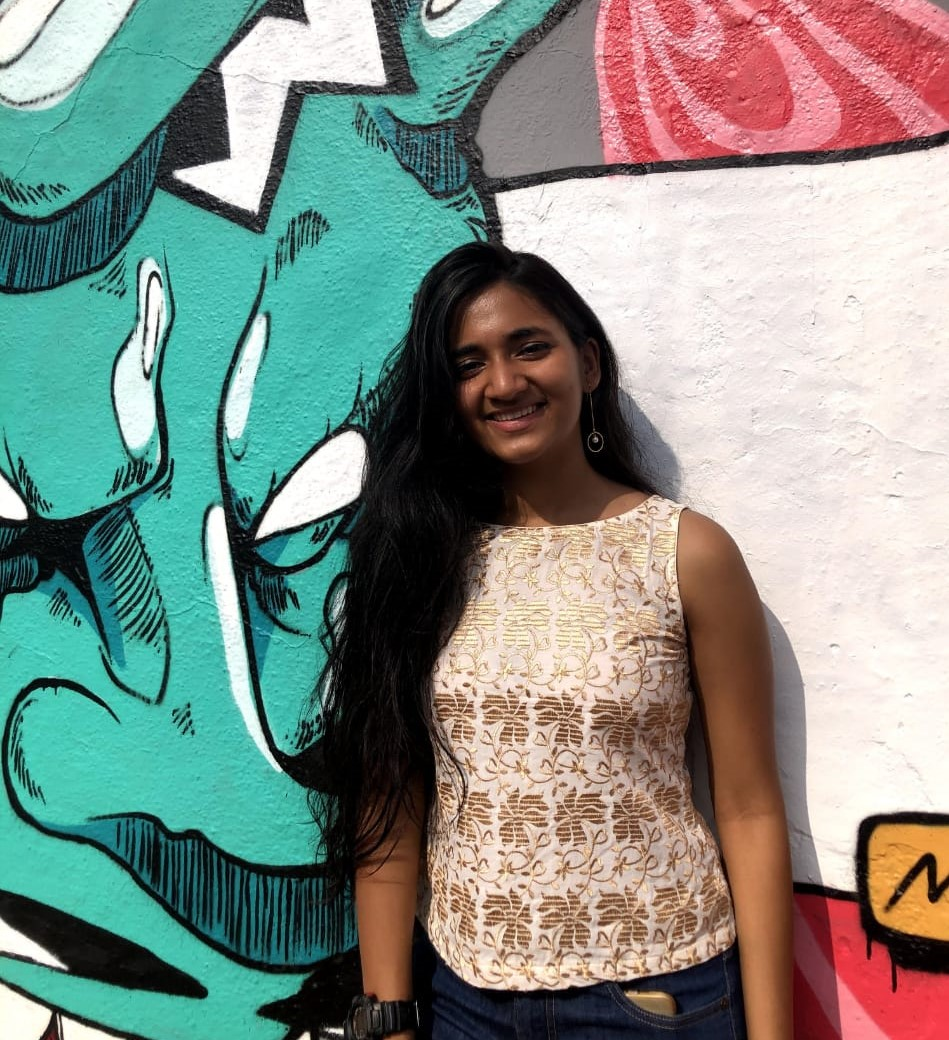
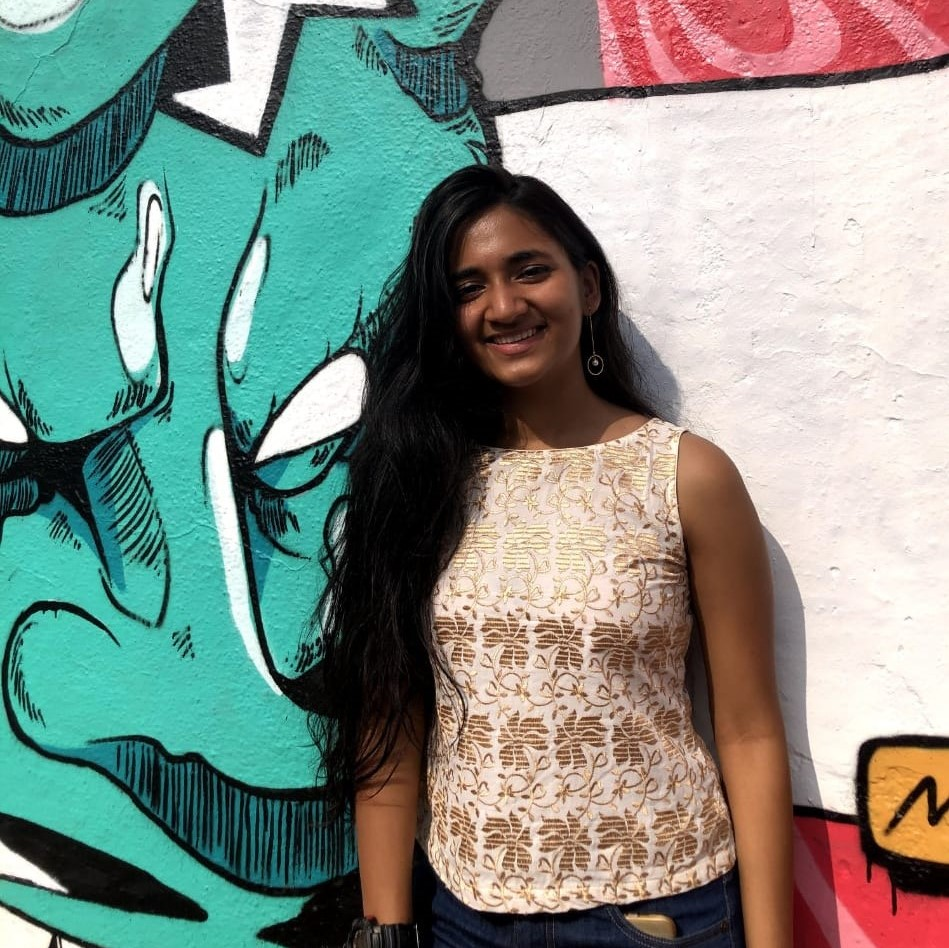
minor changes

diff --git a/src/desktop/aboutus.js b/src/desktop/aboutus.js
@@ -14,6 +14,7 @@ import Riddhi from '../assets/Riddhi.jpg';
 import Satkriti from '../assets/Satkriti.jpg';
 import Siddhartha from '../assets/Siddhartha.jpg';
 import Nirmit from '../assets/nirmit.jpeg';
+import abhishek from '../assets/abhishek.jpeg';
 
 
 const Aboutus = (props) =>{
@@ -240,7 +241,7 @@ const Aboutus = (props) =>{
             </Col>
             <Col xs={24} sm={24} md={12} lg={8} xl={6}>
             <div className="photo">
-                <img src="./assets/nirmit.jpeg"/>
+                <img src={abhishek}/>
             </div>
             <div className="content">
                 <h4>Abhishek Kushwaha</h4>
